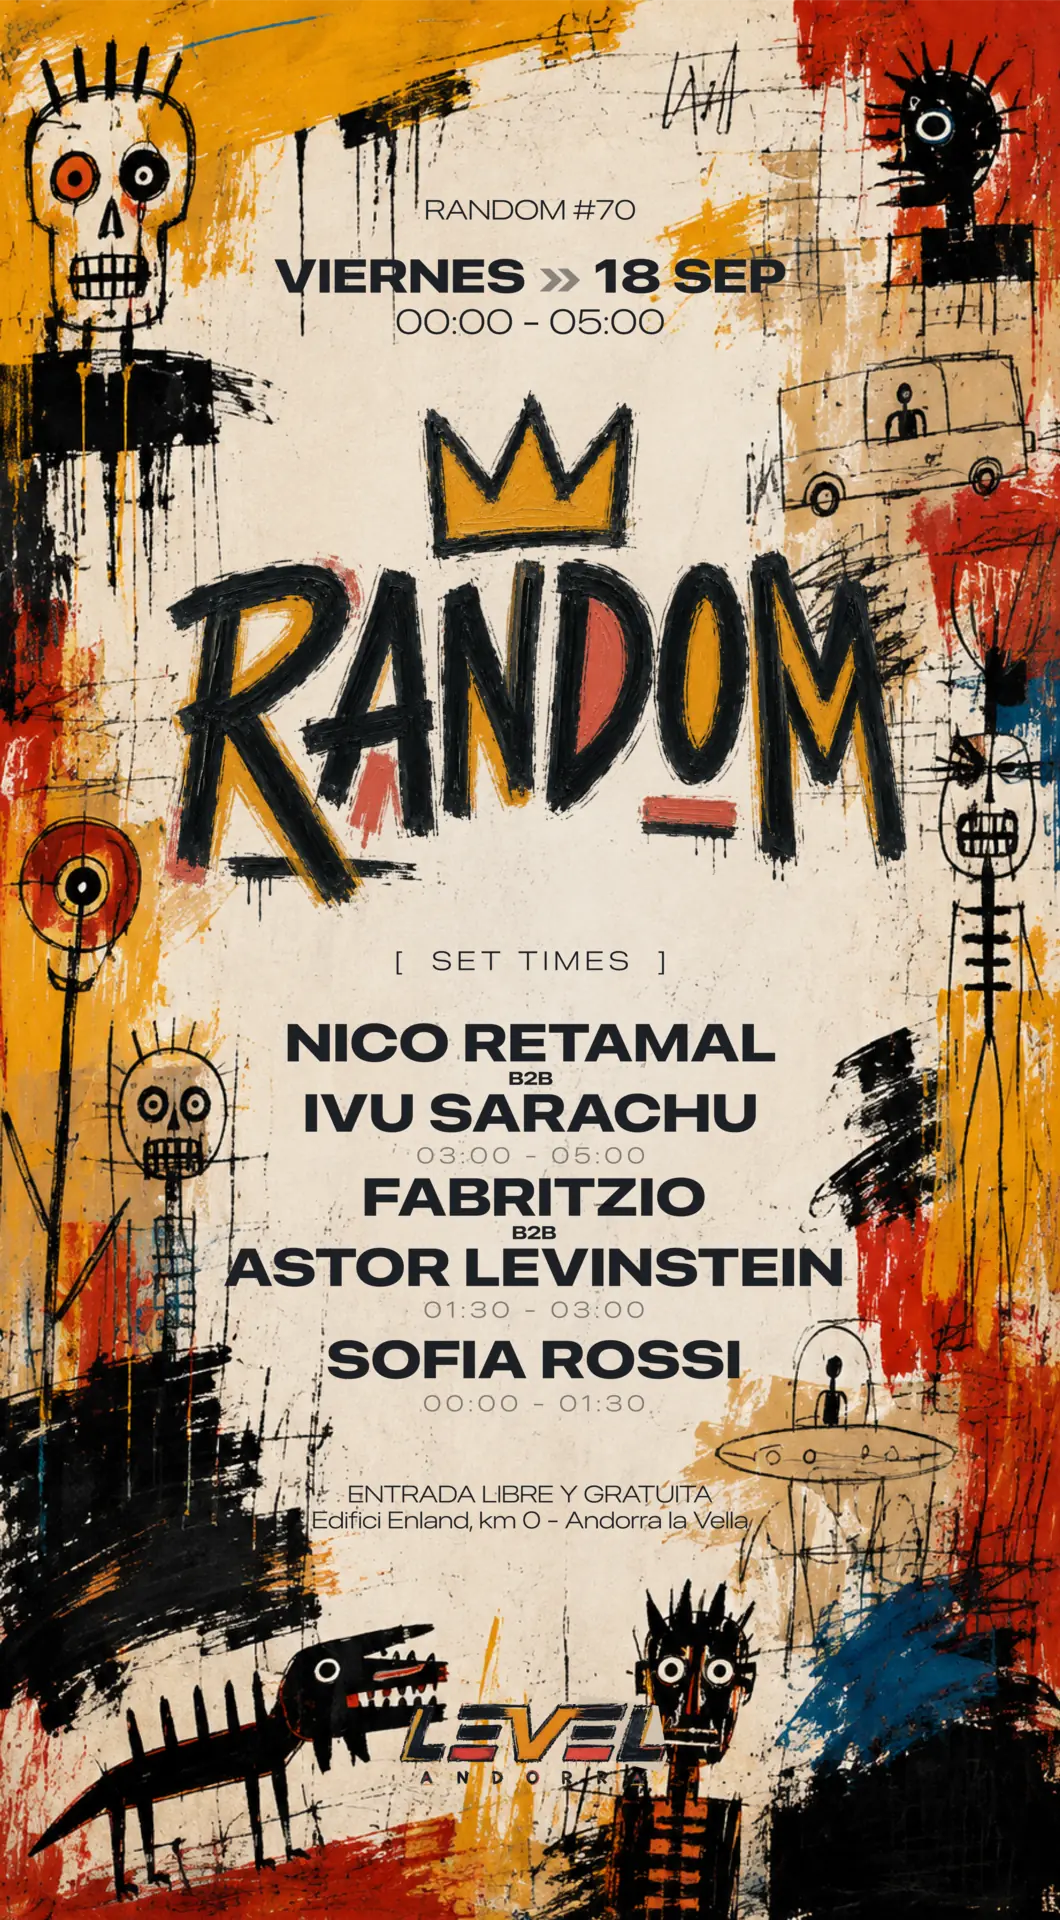
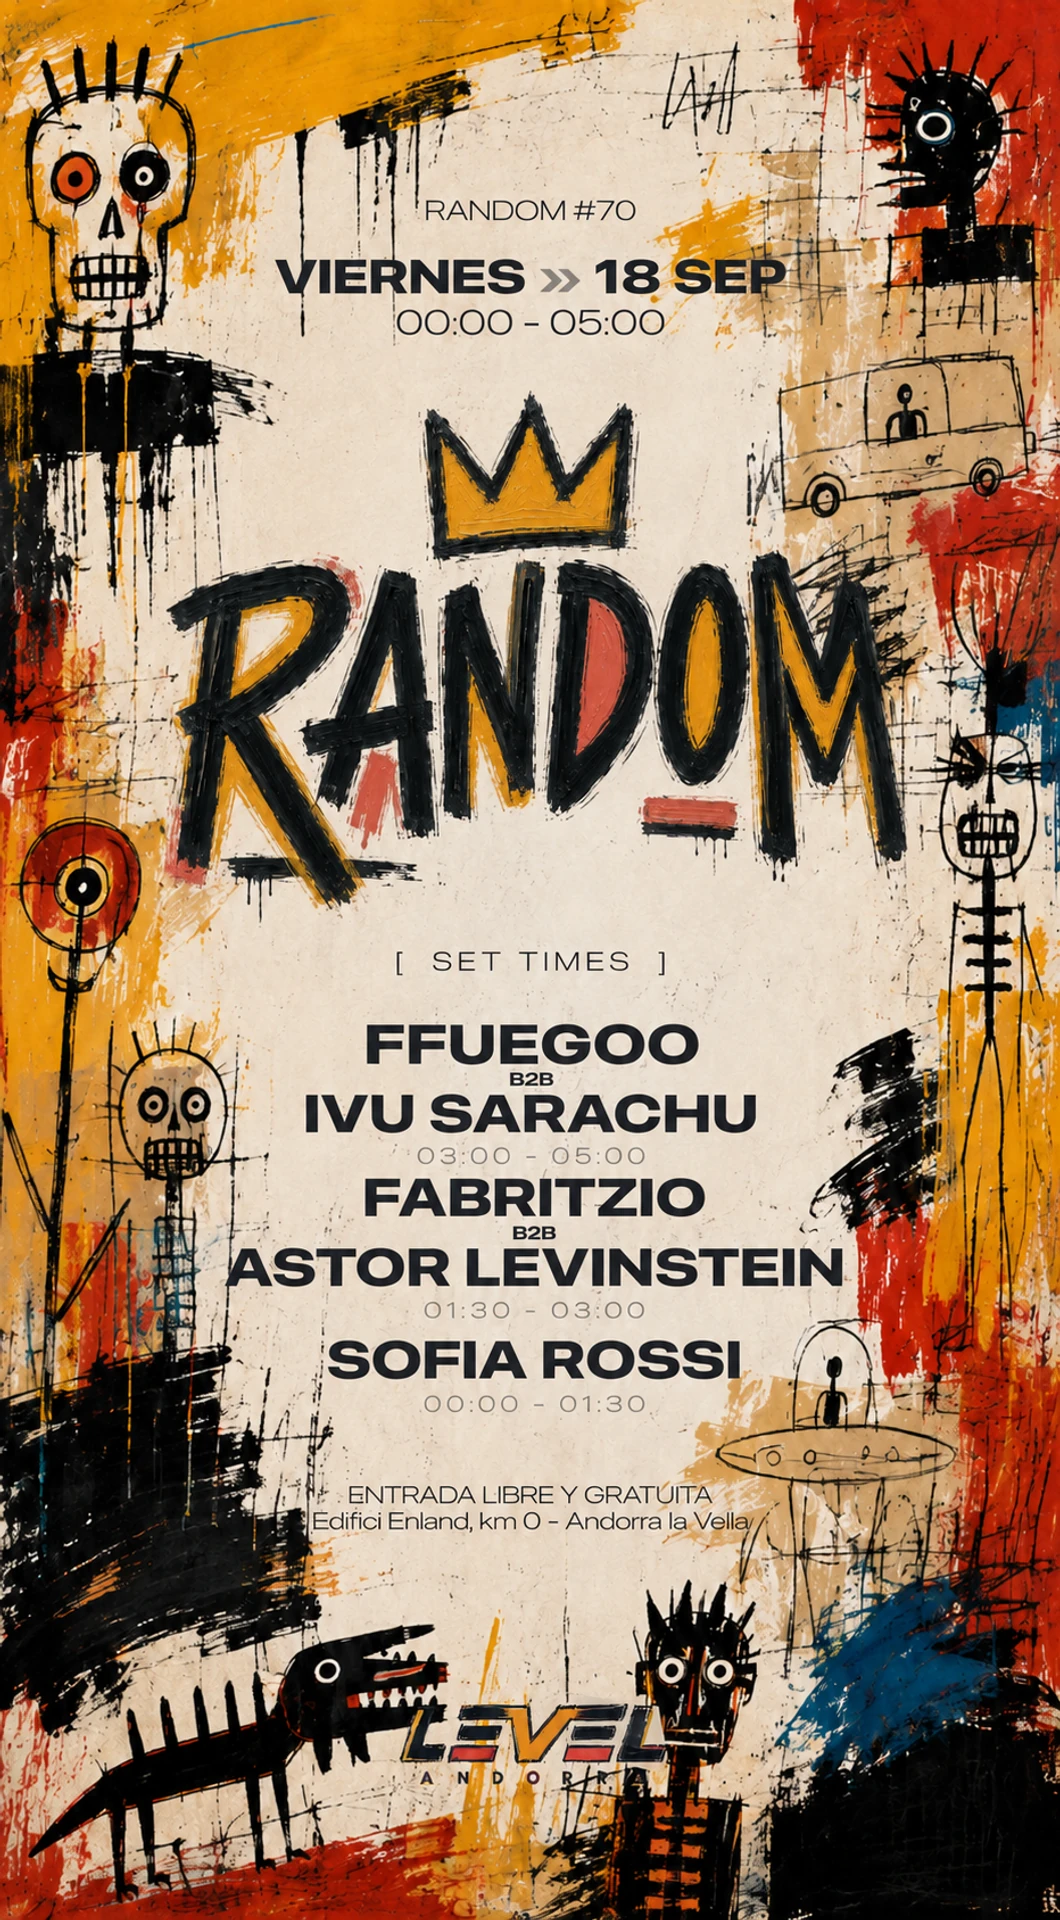
Update RANDOM 70 artist and flyers to FFUEGOO

diff --git a/docs/ediciones/70-basquiat/index.html b/docs/ediciones/70-basquiat/index.html
@@ -4,14 +4,14 @@
     <meta charset="UTF-8" />
     <meta name="viewport" content="width=device-width, initial-scale=1" />
     <meta name="theme-color" content="#070707" />
-    <meta name="description" content="RANDOM #70 · BASQUIAT. VIERNES 18 SEPTIEMBRE 2026 en LEVEL. Line-up: SOFIA ROSSI · FABRITZIO B2B ASTOR LEVINSTEIN · NICO RETAMAL B2B IVU SARACHU." />
+    <meta name="description" content="RANDOM #70 · BASQUIAT. VIERNES 18 SEPTIEMBRE 2026 en LEVEL. Line-up: SOFIA ROSSI · FABRITZIO B2B ASTOR LEVINSTEIN · FFUEGOO B2B IVU SARACHU." />
     <link rel="canonical" href="https://randomelectronic.com/ediciones/70-basquiat/" />
     <meta property="og:type" content="website" />
     <meta property="og:site_name" content="RANDOM" />
     <meta property="og:url" content="https://randomelectronic.com/ediciones/70-basquiat/" />
     <meta property="og:title" content="RANDOM #70 · BASQUIAT — 18 Septiembre 2026" />
-    <meta property="og:description" content="RANDOM #70 · BASQUIAT. VIERNES 18 SEPTIEMBRE 2026 en LEVEL. Line-up: SOFIA ROSSI · FABRITZIO B2B ASTOR LEVINSTEIN · NICO RETAMAL B2B IVU SARACHU." />
-    <meta property="og:image" content="https://randomelectronic.com/assets/random-70.webp?v=20260902-3" />
+    <meta property="og:description" content="RANDOM #70 · BASQUIAT. VIERNES 18 SEPTIEMBRE 2026 en LEVEL. Line-up: SOFIA ROSSI · FABRITZIO B2B ASTOR LEVINSTEIN · FFUEGOO B2B IVU SARACHU." />
+    <meta property="og:image" content="https://randomelectronic.com/assets/random-70.webp?v=20260904-ffuegoo" />
     <meta name="twitter:card" content="summary_large_image" />
     <link rel="icon" href="/assets/favicon.ico" sizes="16x16 32x32 48x48" />
     <link rel="apple-touch-icon" href="/assets/apple-touch-icon.png" />
@@ -19,7 +19,7 @@
     <link rel="preconnect" href="https://fonts.gstatic.com" crossorigin />
     <link rel="stylesheet" href="https://fonts.googleapis.com/css2?family=Host+Grotesk:wght@300..800&display=swap" />
     <link rel="stylesheet" href="/edition.css?v=20260827-2" />
-    <script type="application/ld+json">{"@context":"https://schema.org","@graph":[{"@type":"Organization","@id":"https://randomelectronic.com/#organization","name":"RANDOM","url":"https://randomelectronic.com/","logo":"https://randomelectronic.com/assets/random-symbol.png","foundingDate":"2018","email":"randomelectromusic@gmail.com","sameAs":["https://www.instagram.com/random.electronic/"]},{"@type":"Event","@id":"https://randomelectronic.com/ediciones/70-basquiat/#event","name":"RANDOM #70 · BASQUIAT","url":"https://randomelectronic.com/ediciones/70-basquiat/","image":["https://randomelectronic.com/assets/random-70.webp?v=20260902-3"],"description":"RANDOM #70 · BASQUIAT. VIERNES 18 SEPTIEMBRE 2026 en LEVEL. Line-up: SOFIA ROSSI · FABRITZIO B2B ASTOR LEVINSTEIN · NICO RETAMAL B2B IVU SARACHU.","eventAttendanceMode":"https://schema.org/OfflineEventAttendanceMode","eventStatus":"https://schema.org/EventScheduled","startDate":"2026-09-19T00:00:00+02:00","location":{"@type":"Place","name":"LEVEL","address":"Edifici Enland, km 0 · Andorra la Vella"},"organizer":{"@id":"https://randomelectronic.com/#organization"},"endDate":"2026-09-19T05:00:00+02:00","performer":[{"@type":"PerformingGroup","name":"SOFIA ROSSI"},{"@type":"PerformingGroup","name":"FABRITZIO B2B ASTOR LEVINSTEIN"},{"@type":"PerformingGroup","name":"NICO RETAMAL B2B IVU SARACHU"}],"isAccessibleForFree":true}]}</script>
+    <script type="application/ld+json">{"@context":"https://schema.org","@graph":[{"@type":"Organization","@id":"https://randomelectronic.com/#organization","name":"RANDOM","url":"https://randomelectronic.com/","logo":"https://randomelectronic.com/assets/random-symbol.png","foundingDate":"2018","email":"randomelectromusic@gmail.com","sameAs":["https://www.instagram.com/random.electronic/"]},{"@type":"Event","@id":"https://randomelectronic.com/ediciones/70-basquiat/#event","name":"RANDOM #70 · BASQUIAT","url":"https://randomelectronic.com/ediciones/70-basquiat/","image":["https://randomelectronic.com/assets/random-70.webp?v=20260904-ffuegoo"],"description":"RANDOM #70 · BASQUIAT. VIERNES 18 SEPTIEMBRE 2026 en LEVEL. Line-up: SOFIA ROSSI · FABRITZIO B2B ASTOR LEVINSTEIN · FFUEGOO B2B IVU SARACHU.","eventAttendanceMode":"https://schema.org/OfflineEventAttendanceMode","eventStatus":"https://schema.org/EventScheduled","startDate":"2026-09-19T00:00:00+02:00","location":{"@type":"Place","name":"LEVEL","address":"Edifici Enland, km 0 · Andorra la Vella"},"organizer":{"@id":"https://randomelectronic.com/#organization"},"endDate":"2026-09-19T05:00:00+02:00","performer":[{"@type":"PerformingGroup","name":"SOFIA ROSSI"},{"@type":"PerformingGroup","name":"FABRITZIO B2B ASTOR LEVINSTEIN"},{"@type":"PerformingGroup","name":"FFUEGOO B2B IVU SARACHU"}],"isAccessibleForFree":true}]}</script>
     <title>RANDOM #70 · BASQUIAT — 18 Septiembre 2026</title>
   </head>
   <body>
@@ -30,19 +30,19 @@
     </header>
     <main id="contenido" class="edition-page">
       <div class="edition-flyer">
-        <img src="/assets/random-70.webp?v=20260902-3" alt="Flyer de RANDOM #70 · BASQUIAT" />
+        <img src="/assets/random-70.webp?v=20260904-ffuegoo" alt="Flyer de RANDOM #70 · BASQUIAT" />
       </div>
       <article class="edition-content">
         <p class="edition-kicker">RANDOM #70</p>
         <h1>BASQUIAT</h1>
         <p class="edition-date">VIERNES 18 SEPTIEMBRE · 2026</p>
         <p class="edition-meta">00:00 – 05:00 · LEVEL ANDORRA · Edifici Enland, km 0 · Andorra la Vella</p>
-        <section class="edition-schedule" aria-labelledby="lineup"><h2 id="lineup">LINE-UP</h2><ol><li><span>00:00 – 01:30</span><strong>SOFIA ROSSI</strong></li><li><span>01:30 – 03:00</span><strong>FABRITZIO B2B ASTOR LEVINSTEIN</strong></li><li><span>03:00 – 05:00</span><strong>NICO RETAMAL B2B IVU SARACHU</strong></li></ol></section>
+        <section class="edition-schedule" aria-labelledby="lineup"><h2 id="lineup">LINE-UP</h2><ol><li><span>00:00 – 01:30</span><strong>SOFIA ROSSI</strong></li><li><span>01:30 – 03:00</span><strong>FABRITZIO B2B ASTOR LEVINSTEIN</strong></li><li><span>03:00 – 05:00</span><strong>FFUEGOO B2B IVU SARACHU</strong></li></ol></section>
         <div class="edition-actions"><a class="edition-button edition-button--primary" href="https://www.google.com/maps/place/DISCOTECA+LEVEL+ANDORRA/@42.5066451,1.5314267,587m/data=!3m2!1e3!4b1!4m6!3m5!1s0x12a58b00008c03b7:0x97377cd5b09f1c00!8m2!3d42.5066451!4d1.5340016!16s%2Fg%2F11wmtngmrk?entry=ttu&amp;g_ep=EgoyMDI2MDgwNS4xIKXMDSoASAFQAw%3D%3D" target="_blank" rel="noreferrer">CÓMO LLEGAR <span>→</span></a><a class="edition-button" href="/#fechas">PRÓXIMAS FECHAS <span>→</span></a></div>
         <p class="edition-entry">ENTRADA LIBRE Y GRATUITA</p>
       </article>
     </main>
     <footer><img src="/assets/random-symbol.png" alt="" width="1500" height="1500" /><span>RANDOM · DESDE 2018</span></footer>
-    <script src="/djs.js?v=20260902-1" defer></script>
+    <script src="/djs.js?v=20260904-ffuegoo" defer></script>
   </body>
 </html>

diff --git a/docs/index.html b/docs/index.html
@@ -1139,11 +1139,11 @@
           >
             <div class="flyer3d" data-card>
               <div class="flyer3d-face flyer3d-face--front">
-                <img src="assets/random-70.webp?v=20260902-3" data-share-src="assets/share/random-70.jpg?v=20260902-3" alt="Flyer oficial de RANDOM #70, Basquiat" loading="lazy" />
+                <img src="assets/random-70.webp?v=20260904-ffuegoo" data-share-src="assets/share/random-70.jpg?v=20260904-ffuegoo" alt="Flyer oficial de RANDOM #70, Basquiat" loading="lazy" />
                 <span class="flyer3d-edition">#70</span>
               </div>
               <div class="flyer3d-face flyer3d-face--back">
-                <img src="assets/random-70-set-times.webp" data-share-src="assets/share/random-70-set-times.jpg" alt="Flyer con los set times de RANDOM #70" loading="lazy" />
+                <img src="assets/random-70-set-times.webp?v=20260904-ffuegoo" data-share-src="assets/share/random-70-set-times.jpg?v=20260904-ffuegoo" alt="Flyer con los set times de RANDOM #70" loading="lazy" />
               </div>
             </div>
             <div class="event-panel event-panel--basquiat" data-panel>
@@ -1154,7 +1154,7 @@
               <div class="schedule" aria-label="Set times de RANDOM 70">
                 <div class="schedule-row"><span>00:00 – 01:30</span><strong>SOFIA ROSSI</strong></div>
                 <div class="schedule-row"><span>01:30 – 03:00</span><strong>FABRITZIO B2B ASTOR LEVINSTEIN</strong></div>
-                <div class="schedule-row"><span>03:00 – 05:00</span><strong>NICO RETAMAL B2B IVU SARACHU</strong></div>
+                <div class="schedule-row"><span>03:00 – 05:00</span><strong>FFUEGOO B2B IVU SARACHU</strong></div>
               </div>
               <div class="event-actions">
                 <a class="button button--solid" href="https://www.google.com/maps/place/DISCOTECA+LEVEL+ANDORRA/@42.5066451,1.5314267,587m/data=!3m2!1e3!4b1!4m6!3m5!1s0x12a58b00008c03b7:0x97377cd5b09f1c00!8m2!3d42.5066451!4d1.5340016!16s%2Fg%2F11wmtngmrk?entry=ttu&amp;g_ep=EgoyMDI2MDgwNS4xIKXMDSoASAFQAw%3D%3D" target="_blank" rel="noreferrer">CÓMO LLEGAR <span>→</span></a>
@@ -1371,7 +1371,7 @@
     <script src="agenda.js?v=20260814-12" defer></script>
     <!-- djs.js va después de agenda.js: para entonces las fechas pasadas ya no
          están en el documento y los botones solo se ponen en las que vienen. -->
-    <script src="djs.js?v=20260902-1" defer></script>
+    <script src="djs.js?v=20260904-ffuegoo" defer></script>
     <script src="carousel.js?v=20260814-3" defer></script>
     <script src="shop.js?v=20260818-1" defer></script>
   </body>

diff --git a/docs/ediciones/69-comic/index.html b/docs/ediciones/69-comic/index.html
@@ -43,6 +43,6 @@
       </article>
     </main>
     <footer><img src="/assets/random-symbol.png" alt="" width="1500" height="1500" /><span>RANDOM · DESDE 2018</span></footer>
-    <script src="/djs.js?v=20260902-1" defer></script>
+    <script src="/djs.js?v=20260904-ffuegoo" defer></script>
   </body>
 </html>

diff --git a/docs/ediciones/71-caligraffiti/index.html b/docs/ediciones/71-caligraffiti/index.html
@@ -43,6 +43,6 @@
       </article>
     </main>
     <footer><img src="/assets/random-symbol.png" alt="" width="1500" height="1500" /><span>RANDOM · DESDE 2018</span></footer>
-    <script src="/djs.js?v=20260902-1" defer></script>
+    <script src="/djs.js?v=20260904-ffuegoo" defer></script>
   </body>
 </html>

diff --git a/docs/djs.js b/docs/djs.js
@@ -27,7 +27,7 @@
     "LUCKEN": "lucken_dj",
     "LUCAS ILLARRA": "lucas.illarra",
     "MRNO": "marianopontnau",
-    "NICO RETAMAL": "ffuegoo_music",
+    "FFUEGOO": "ffuegoo_music",
     "SOFIA ROSSI": "pepitaroxx"
   };
 

diff --git a/scripts/generate_seo.py b/scripts/generate_seo.py
@@ -299,7 +299,7 @@ def render_page(edition: Edition) -> str:
 {entry_html}      </article>
     </main>
     <footer><img src="/assets/random-symbol.png" alt="" width="1500" height="1500" /><span>RANDOM · DESDE 2018</span></footer>
-    <script src="/djs.js?v=20260902-1" defer></script>
+    <script src="/djs.js?v=20260904-ffuegoo" defer></script>
   </body>
 </html>
 '''
